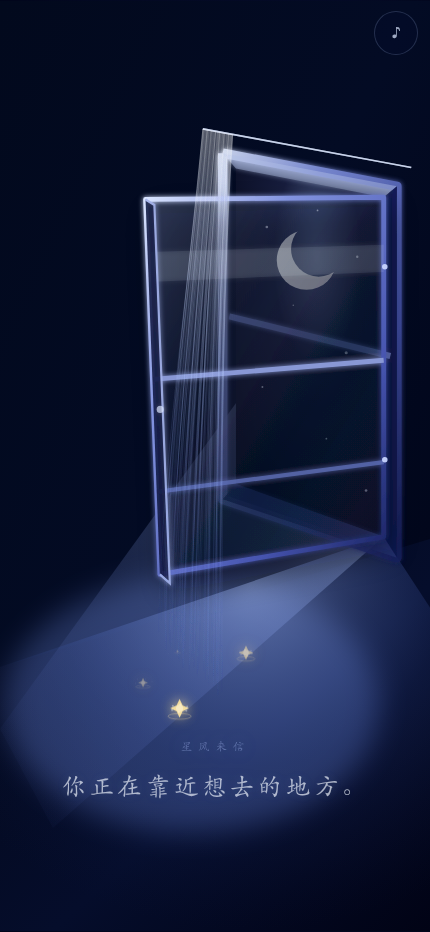
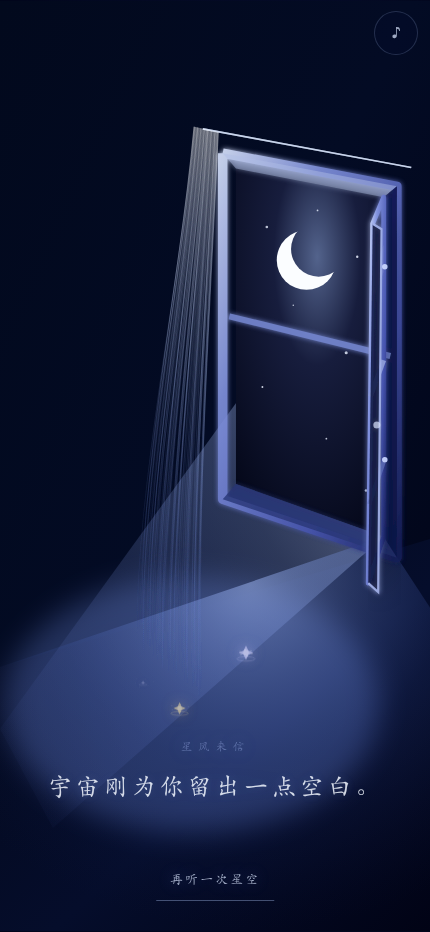
fix(starwind-letter): fully open the chance scene

diff --git a/projects/10-starwind-letter/src/App.css b/projects/10-starwind-letter/src/App.css
@@ -166,13 +166,75 @@ button { font: inherit; }
 .phrase-row[data-offset="1"] { opacity: 0.1; filter: blur(2.8px); transform: translateY(5px) scale(0.93); }
 .phrase-row[data-offset="0"] { opacity: 1; filter: blur(0); transform: translateY(0) scale(1); }
 
+.phrase-carousel[data-phrase-mode="chance"] {
+  mask-image: linear-gradient(to bottom, transparent 2%, #000 24%, #000 76%, transparent 98%);
+}
+
+.phrase-carousel[data-state="spinning"] .phrase-reel {
+  animation: chance-wheel-drift 430ms linear infinite;
+}
+
+.phrase-carousel[data-state="spinning"] .phrase-row {
+  width: min(90vw, 19em);
+  color: rgb(228 237 255 / 68%);
+  text-shadow:
+    0 -9px 10px rgb(142 171 255 / 14%),
+    0 9px 10px rgb(142 171 255 / 16%),
+    0 0 22px rgb(151 180 255 / 36%);
+  transition: none;
+}
+
+.phrase-carousel[data-state="slowing"] .phrase-row { width: min(90vw, 19em); }
+
+.phrase-carousel[data-state="spinning"] .phrase-row[data-offset="0"] {
+  opacity: 0.68;
+  filter: blur(4.2px);
+  transform: translateY(0) scale(1.025, 1.16) skewX(-1.4deg);
+}
+
+.phrase-carousel[data-state="spinning"] .phrase-row[data-offset="-1"],
+.phrase-carousel[data-state="spinning"] .phrase-row[data-offset="1"] {
+  opacity: 0.15;
+  filter: blur(5.4px);
+}
+
+.phrase-carousel[data-state="slowing"] .phrase-row { transition-duration: 160ms; }
+
+.phrase-carousel[data-state="slowing"] .phrase-row[data-offset="0"] {
+  opacity: 0.75;
+  filter: blur(5.6px);
+  transform: translateY(0) scale(1, 1.13);
+  text-shadow:
+    0 -7px 10px rgb(142 171 255 / 14%),
+    0 7px 10px rgb(142 171 255 / 14%),
+    0 0 20px rgb(151 180 255 / 28%);
+}
+
+.phrase-streak {
+  display: block;
+  width: var(--phrase-width);
+  height: 8px;
+  margin: 13px auto;
+  border-radius: 999px;
+  background:
+    radial-gradient(ellipse at center, rgb(171 196 255 / 30%), transparent 72%),
+    repeating-linear-gradient(90deg, transparent 0 4%, rgb(225 235 255 / 72%) 5.5% 7.5%, transparent 9% 12%);
+  box-shadow: 0 0 18px rgb(118 151 236 / 22%);
+  filter: blur(2.1px);
+}
+
+.phrase-carousel[data-phrase-mode="chance"] .phrase-row::after {
+  opacity: 0;
+  animation: none;
+}
+
 .phrase-char {
   display: inline-block;
   opacity: 0;
   filter: blur(7px);
   transform: translateY(8px) scale(0.92);
-  animation: phrase-char-arrive 1120ms cubic-bezier(0.16, 0.72, 0.24, 1) forwards;
-  animation-delay: calc(var(--char-index) * 38ms);
+  animation: phrase-char-arrive var(--phrase-reveal-duration) cubic-bezier(0.16, 0.72, 0.24, 1) forwards;
+  animation-delay: calc(var(--char-index) * var(--phrase-char-stagger));
 }
 
 .phrase-row[data-offset="0"]::after {
@@ -257,11 +319,18 @@ button { font: inherit; }
   100% { opacity: 0; transform: scaleX(1); }
 }
 
+@keyframes chance-wheel-drift {
+  0% { transform: translateY(-2px); }
+  50% { transform: translateY(2px); }
+  100% { transform: translateY(-2px); }
+}
+
 @media (prefers-reduced-motion: reduce) {
   .phrase-row,
   .phrase-carousel { transition-duration: 120ms; }
   .phrase-char { animation-duration: 180ms; animation-delay: 0ms; }
   .phrase-row[data-offset="0"]::after { animation: none; }
+  .phrase-carousel[data-state="spinning"] .phrase-reel { animation: none; }
 }
 
 @media (orientation: landscape) {

diff --git a/projects/10-starwind-letter/src/ui/PhraseCarousel.tsx b/projects/10-starwind-letter/src/ui/PhraseCarousel.tsx
@@ -9,6 +9,9 @@ interface PhraseCarouselProps {
   readonly progress: number
 }
 
+const PHRASE_REVEAL_DURATION_MS = 440
+const PHRASE_REVEAL_STAGGER_MS = 220
+
 function phraseTone(state: ExperienceState) {
   if (state.tag === 'wind' || state.tag === 'window-opening') return 'dimmed'
   if (state.tag === 'stars-entering') return 'returning'
@@ -19,30 +22,42 @@ function phraseTone(state: ExperienceState) {
 export function PhraseCarousel({ state, selected, visibleMessages, progress }: PhraseCarouselProps) {
   const isChoosing = state.tag === 'spinning' || state.tag === 'slowing'
   const rows = isChoosing ? visibleMessages : selected ? [selected] : []
-  const style = { '--phrase-progress': progress } as CSSProperties
+  const characterCount = selected ? Array.from(selected.text).length : 1
+  const style = {
+    '--phrase-progress': progress,
+    '--phrase-reveal-duration': `${PHRASE_REVEAL_DURATION_MS}ms`,
+    '--phrase-char-stagger': `${PHRASE_REVEAL_STAGGER_MS / Math.max(1, characterCount - 1)}ms`,
+  } as CSSProperties
 
   return (
     <div
       className={`phrase-carousel phrase-carousel--${phraseTone(state)}`}
+      data-phrase-mode={isChoosing ? 'chance' : 'reveal'}
       data-phrase-treatment="light-dust"
+      data-reveal-total-ms={!isChoosing && selected ? PHRASE_REVEAL_DURATION_MS + PHRASE_REVEAL_STAGGER_MS : undefined}
       data-state={state.tag}
       style={style}
       aria-live={state.tag === 'selected' ? 'polite' : 'off'}
+      aria-hidden={isChoosing ? true : undefined}
     >
       <div className="phrase-reel">
         {rows.map((message, index) => {
           const centerIndex = Math.floor(rows.length / 2)
           const offset = index - centerIndex
+          const phraseWidth = Math.min(84, 34 + Array.from(message.text).length * 3.4)
           return (
             <p
               className="phrase-row"
               data-phrase-row
               data-offset={offset}
               aria-hidden={isChoosing && offset !== 0 ? true : undefined}
-              aria-label={offset === 0 ? message.text : undefined}
+              aria-label={!isChoosing && offset === 0 ? message.text : undefined}
               key={message.id}
+              style={{ '--phrase-width': `${phraseWidth}%` } as CSSProperties}
             >
-              {offset === 0
+              {isChoosing
+                ? <span className="phrase-streak" aria-hidden="true" />
+                : offset === 0
                 ? Array.from(message.text).map((character, characterIndex) => (
                     <span
                       aria-hidden="true"

diff --git a/projects/10-starwind-letter/src/ui/PhraseCarousel.test.tsx b/projects/10-starwind-letter/src/ui/PhraseCarousel.test.tsx
@@ -41,16 +41,32 @@ describe('phrase carousel', () => {
     expect(html.match(/data-phrase-row/g)).toHaveLength(5)
   })
 
-  it('splits the central phrase into characters for a staggered stardust reveal', () => {
+  it('keeps chance-wheel phrases obscured and reserves character reveal for the final selection', () => {
     const center = messages[2]
     if (!center) throw new Error('Expected a center message')
-    const html = renderToStaticMarkup(
+    const spinning = renderToStaticMarkup(
       <PhraseCarousel
         state={{ tag: 'spinning', run: 0 }}
         visibleMessages={messages.slice(0, 5)}
         progress={0}
       />,
     )
-    expect(html.match(/data-phrase-char/g)).toHaveLength(center.text.length)
+    const selected = renderToStaticMarkup(
+      <PhraseCarousel
+        state={{ tag: 'selected', run: 0, messageId: center.id }}
+        selected={center}
+        visibleMessages={messages.slice(0, 5)}
+        progress={1}
+      />,
+    )
+
+    expect(spinning).toContain('data-phrase-mode="chance"')
+    expect(spinning).toMatch(/<div class="phrase-carousel[^>]+aria-hidden="true"/)
+    expect(spinning).not.toContain('data-phrase-char')
+    expect(spinning).not.toContain(center.text)
+    expect(selected.match(/data-phrase-char/g)).toHaveLength(center.text.length)
+    expect(selected).not.toMatch(/<div class="phrase-carousel[^>]+aria-hidden="true"/)
+    const revealDuration = Number(selected.match(/data-reveal-total-ms="(\d+)"/)?.[1])
+    expect(revealDuration).toBeLessThanOrEqual(700)
   })
 })

diff --git a/projects/10-starwind-letter/src/scene/CurtainLayer.test.tsx b/projects/10-starwind-letter/src/scene/CurtainLayer.test.tsx
@@ -11,6 +11,14 @@ function firstPathNumbers(sample: ReturnType<typeof sampleTimeline>) {
   return Array.from(path.matchAll(/-?\d+(?:\.\d+)?/g), ([number]) => Number(number))
 }
 
+function curtainPathXCoordinates(sample: ReturnType<typeof sampleTimeline>) {
+  const html = renderToStaticMarkup(createElement(CurtainLayer, { sample }))
+  return Array.from(html.matchAll(/<path d="([^"]+)"/g), ([, path]) => {
+    const values = Array.from(path.matchAll(/-?\d+(?:\.\d+)?/g), ([number]) => Number(number))
+    return [values[0], values[2], values[4], values[6]] as const
+  }).flat()
+}
+
 describe('curtain reset motion', () => {
   it('approaches the resting strand geometry before reset completes', () => {
     const resting = firstPathNumbers(sampleTimeline(0, false))
@@ -18,5 +26,11 @@ describe('curtain reset motion', () => {
     const largestDelta = Math.max(...resting.map((value, index) => Math.abs(value - (almostReset[index] ?? value))))
 
     expect(largestDelta).toBeLessThan(2)
+  })
+
+  it('clears every curtain strand left of the portal before the sash starts opening', () => {
+    for (const elapsedMs of [3399, 3400]) {
+      expect(Math.max(...curtainPathXCoordinates(sampleTimeline(elapsedMs, false)))).toBeLessThan(214)
+    }
   })
 })

diff --git a/projects/10-starwind-letter/src/scene/curtain.ts b/projects/10-starwind-letter/src/scene/curtain.ts
@@ -49,8 +49,8 @@ export function sampleCurtainPath(strand: CurtainStrand, windProgress: number, t
   const recoil = Math.sin(delayed * Math.PI * 2.4) * (1 - delayed) * 10
   const windStart = strand.anchor
   const gatheredStart = {
-    x: 184 + strandRatio * 27,
-    y: 116 + strandRatio * 5,
+    x: 176 + strandRatio * 22,
+    y: 114 + strandRatio * 5,
   }
   const start = {
     x: mix(windStart.x, gatheredStart.x, gather),
@@ -73,9 +73,9 @@ export function sampleCurtainPath(strand: CurtainStrand, windProgress: number, t
   }
   const gatheredWave = Math.sin(strand.phase + timeMs / 1050) * 5
   const gatheredPath = {
-    control1: { x: 171 + strandRatio * 30, y: 255 + strandRatio * 14 },
-    control2: { x: 145 + strandRatio * 58 + gatheredWave * 0.28, y: 438 + strandRatio * 18 },
-    end: { x: 146 + strandRatio * 55 + gatheredWave * 0.72, y: 565 + strandRatio * 44 + (strand.id % 4) * 7 },
+    control1: { x: 163 + strandRatio * 28, y: 255 + strandRatio * 14 },
+    control2: { x: 124 + strandRatio * 56 + gatheredWave * 0.24, y: 438 + strandRatio * 18 },
+    end: { x: 126 + strandRatio * 57 + gatheredWave * 0.6, y: 565 + strandRatio * 44 + (strand.id % 4) * 7 },
   }
   return {
     start,

diff --git a/projects/10-starwind-letter/src/scene/geometry.ts b/projects/10-starwind-letter/src/scene/geometry.ts
@@ -8,15 +8,18 @@ export const WINDOW_PORTAL: Quad = {
 }
 
 const clamp = (value: number) => Math.min(1, Math.max(0, value))
-const easeOutCubic = (value: number) => 1 - (1 - value) ** 3
+const smoothstep = (value: number) => value * value * (3 - 2 * value)
 
 export function projectSash(openProgress: number): Quad {
-  const progress = easeOutCubic(clamp(openProgress))
+  const angle = smoothstep(clamp(openProgress)) * Math.PI / 2
+  const depth = Math.sin(angle)
+  const topWidth = 134 * Math.cos(angle) + 10 * depth
+  const bottomWidth = 134 * Math.cos(angle) + 14 * depth
   return {
-    topLeft: { x: WINDOW_PORTAL.topLeft.x - 82 * progress, y: WINDOW_PORTAL.topLeft.y + 28 * progress },
+    topLeft: { x: WINDOW_PORTAL.topRight.x - topWidth, y: WINDOW_PORTAL.topLeft.y + 50 * depth },
     topRight: WINDOW_PORTAL.topRight,
     bottomRight: WINDOW_PORTAL.bottomRight,
-    bottomLeft: { x: WINDOW_PORTAL.bottomLeft.x - 69 * progress, y: WINDOW_PORTAL.bottomLeft.y + 82 * progress },
+    bottomLeft: { x: WINDOW_PORTAL.bottomRight.x - bottomWidth, y: WINDOW_PORTAL.bottomLeft.y + 90 * depth },
   }
 }
 

diff --git a/projects/10-starwind-letter/src/scene/geometry.test.ts b/projects/10-starwind-letter/src/scene/geometry.test.ts
@@ -2,13 +2,14 @@ import { describe, expect, it } from 'vitest'
 import { WINDOW_PORTAL, crossesPortal, pointInConvexQuad, projectSash } from './geometry'
 
 describe('perspective window geometry', () => {
-  it('keeps the right hinge edge fixed while the sash opens toward the viewer', () => {
+  it('keeps the hinge fixed and turns the fully open sash nearly edge-on', () => {
     const closed = projectSash(0)
     const open = projectSash(1)
     expect(open.topRight).toEqual(closed.topRight)
     expect(open.bottomRight).toEqual(closed.bottomRight)
-    expect(open.topLeft.x).toBeLessThan(closed.topLeft.x)
     expect(open.bottomLeft.y).toBeGreaterThan(closed.bottomLeft.y)
+    expect(open.topRight.x - open.topLeft.x).toBeLessThan(20)
+    expect(open.bottomRight.x - open.bottomLeft.x).toBeLessThan(20)
   })
 
   it('recognizes points in the slanted portal', () => {

diff --git a/projects/10-starwind-letter/src/scene/CurtainLayer.tsx b/projects/10-starwind-letter/src/scene/CurtainLayer.tsx
@@ -22,10 +22,10 @@ function gatherStrength(sample: TimelineSample) {
   switch (sample.stage) {
     case 'slowing':
     case 'selected': return 0
-    case 'wind': return sample.stageProgress * 0.42
-    case 'window-opening': return 0.42 + sample.stageProgress * 0.38
-    case 'stars-entering': return 0.8 + sample.stageProgress * 0.15
-    case 'settling': return 0.95 + sample.stageProgress * 0.05
+    case 'wind': return sample.stageProgress
+    case 'window-opening':
+    case 'stars-entering': return 1
+    case 'settling': return 1
     case 'resetting': return 1 - sample.stageProgress
     case 'result': return 1
   }

diff --git a/projects/10-starwind-letter/src/App.tsx b/projects/10-starwind-letter/src/App.tsx
@@ -83,9 +83,12 @@ export function App() {
 
   useEffect(() => {
     if (state.tag !== 'spinning') return
-    const timer = window.setInterval(() => setSpinIndex((index) => (index + 1) % messages.length), 1650)
+    const timer = window.setInterval(
+      () => setSpinIndex((index) => (index + 1) % messages.length),
+      reducedMotion ? 180 : 72,
+    )
     return () => window.clearInterval(timer)
-  }, [state.tag])
+  }, [reducedMotion, state.tag])
 
   useEffect(() => {
     if (!selected) return

diff --git a/projects/10-starwind-letter/src/scene/curtain.test.ts b/projects/10-starwind-letter/src/scene/curtain.test.ts
@@ -37,7 +37,8 @@ describe('strand curtain motion', () => {
     const starts = gathered.map(({ start }) => start.x)
     const ends = gathered.map(({ end }) => end.x)
 
-    expect(Math.max(...starts) - Math.min(...starts)).toBeLessThan(34)
-    expect(Math.max(...ends)).toBeLessThan(210)
+    expect(Math.max(...starts)).toBeLessThan(202)
+    expect(Math.max(...starts) - Math.min(...starts)).toBeLessThan(28)
+    expect(Math.max(...ends)).toBeLessThan(192)
   })
 })

diff --git a/projects/10-starwind-letter/DESIGN.md b/projects/10-starwind-letter/DESIGN.md
@@ -14,15 +14,15 @@
 - 窗框上沿、横梁和帘杆具有一致的透视收束，不能退化为正面矩形窗。
 - 初始窗户明确关闭，月亮和窗框从半透明帘线后若隐若现。
 - 风从右上方窗外穿过窗口，向左下方室内前景推进。
-- 窗扇以铰链边为固定轴向观看者旋开，而不是淡出、缩放或二维平移。
+- 窗扇以右侧铰链边为固定轴向室内旋开到接近 90°，而不是淡出、缩放或二维平移；结果态只保留窄侧边，完整露出窗洞。
 - 所有可辨认主星都必须从窗外出生，穿过窗口后才能进入室内。
 
 ### 2.2 星语采用“光尘显字”
 
 - 不使用卡片、厚重信纸、书本、输入框或结果弹窗承载星语。
 - 星语位于画面下方约 25% 的安静区域，最多两行，避开窗框、帘线密集区和主风道。
-- 字体使用纤细的中文宋体风格回退栈，颜色为克制的银白，只有轻微冷蓝辉光。
-- 轮播时中心句清晰，上下候选句像远处光影一样淡化和虚化。
+- 字体使用带手写温度的中文楷体回退栈，颜色为克制的银白，只有轻微冷蓝辉光。
+- 轮播时全部候选句化为高速、低亮的纵向模糊光痕，不让用户提前辨认；只有随机停住的最终句逐字显现。
 - 风压峰值时选中句降低亮度但保持可读，让视觉焦点交给帘子和开窗动作。
 - 星星进入后从文字后方和周围经过；主星最终停在句尾附近，文字随之重新点亮。
 - “再听一次星空”只在结果态出现，以轻盈文字按钮呈现，不破坏截图构图。
@@ -60,7 +60,7 @@ React 只负责状态和语义 UI。连续动画由同一个 `requestAnimationFr
 
 ### 3.3 窗户与帘线
 
-窗户由一组设计坐标中的四边形描述。窗扇的铰链边保持固定，另外两个角根据开启进度和透视投影计算新位置，形成约 65° 的向室内旋转。月光宽度、亮度和落点使用同一开启进度。
+窗户由一组设计坐标中的四边形描述。窗扇的右侧铰链边保持固定，另外两个角根据开启角度和透视投影计算新位置，最终形成接近 90° 的向室内旋转；末态玻璃面压缩为窄侧边。月光宽度、亮度和落点使用同一开启进度。
 
 首版使用约 64 根线帘。每根帘线拥有独立长度、亮度、相位、延迟和风响应系数；顶端固定，越靠近底端位移越大。线条使用二次或三次贝塞尔曲线，风压由迎风侧向另一侧传播。峰值时大部分线条形成从右上固定点到左下前景的扇形长弧，但仍保留少量落后线束和回弹余波。
 
@@ -83,7 +83,7 @@ React 只负责状态和语义 UI。连续动画由同一个 `requestAnimationFr
 
 | 相对时间 | 阶段 | 画面与声音 |
 |---|---|---|
-| 0.00–1.20s | 减速 | 轮播滚过 3–6 句，带惯性停下；首次点击在 100ms 内产生压缩或光圈反馈。 |
+| 0.00–1.20s | 减速 | 不可辨认的模糊光痕滚过 3–6 句并带惯性停下；真正停住后，最终星语才逐字显现。 |
 | 1.20–1.90s | 静默停顿 | 星语微亮，月亮或窗外一颗星闪一下，帘线底端首次轻动。 |
 | 1.90–3.40s | 风压爆发 | 风声快速增强；帘线受力传播并向左下前景拉成长弧面。 |
 | 3.40–4.30s | 开窗 | 窗框轻颤约 120ms，窗扇带重量感向室内旋开，月光同步扩大。 |

diff --git a/projects/10-starwind-letter/VISUAL_QA.md b/projects/10-starwind-letter/VISUAL_QA.md
@@ -16,8 +16,8 @@
 
 - 通过：窗户位于上半屏偏右，帘杆、窗框上沿和横梁保持同向透视。
 - 通过：关闭态只有玻璃后的微弱月影，墙面和地面没有室内光束；明暗变化由开窗动作触发。
-- 通过：风压峰值中 64 根帘线向左下室内前景形成长弧面；随后帘环沿杆滑向左侧，结果态尾线不再横穿窗口。
-- 通过：窗扇固定右侧铰链边，带玻璃面、反光、把手、侧边和投影，朝观看者和左下方向旋开；月光与地面亮区同步扩大。
+- 通过：风压峰值中 64 根帘线向左下室内前景形成长弧面；开窗完成前帘环全部滑到窗洞左外侧，结果态尾线不再横穿窗口。
+- 通过：窗扇固定右侧铰链边，玻璃面随开启角度持续压窄；结果态接近 90°、只保留窄侧边和反光，窗洞完整敞开，月光与地面亮区同步扩大。
 - 通过：窗框在风压峰值仍可辨认，没有被发光粒子覆盖成白团。
 - 通过：星语使用无卡片“逐字光尘凝聚”，旧句上浮虚化，新句由弱光扫过后成形；系统楷宋字体位于下方留白。
 
@@ -33,15 +33,15 @@
 
 ## 选句与重置
 
-- 点击后 1.2 秒内实测中心位置依次显示 5 个不同候选句，停留间隔逐步拉长，最终落到预选星语。
-- 文案中心字符逐字由模糊光尘凝聚，旧句向上降亮，不再以高频整句硬闪替换。
+- 首屏实测约每 72ms 更换候选；候选原文在 `spinning/slowing` 阶段不挂载，只渲染宽度随候选变化的银蓝抽象光痕，因此视觉、DOM 与辅助技术均无法提前读出文案。
+- 点击后 1.2 秒内候选停留间隔逐步拉长，但始终维持不可辨认的柔光痕迹；真正停住后，只有最终句在 660ms 内由模糊光尘逐字凝聚，并在风起前完成。
 - 重播使用独立 `resetting` 采样：帘束由窗侧连续铺回整扇窗口，窗扇、月光和星粒同步收拢；结束前帘线几何已接近首帧，没有末帧跳变。
 
 ## 安全区与响应式
 
 - [32px 安全区截图](./release-assets/390-safe-area-32.png)：音效按钮 `y = 42.015625px`，尺寸为 44×44 CSS px。
 - 390 宽度实测 `documentElement.scrollWidth === clientWidth === 390`，无横向滚动。
-- 375、390、430 的全部候选句和结果句均不超过两行，未发现裁字或关键主体出屏。
+- 375、390、430 的最终句均不超过两行，首屏模糊轮盘、全开窗扇、帘束、星轨与结果控件均未裁切或出屏。
 - 横屏规则保持居中 390:844 竖版舞台，不拉伸场景透视。
 
 ## 降低动态
